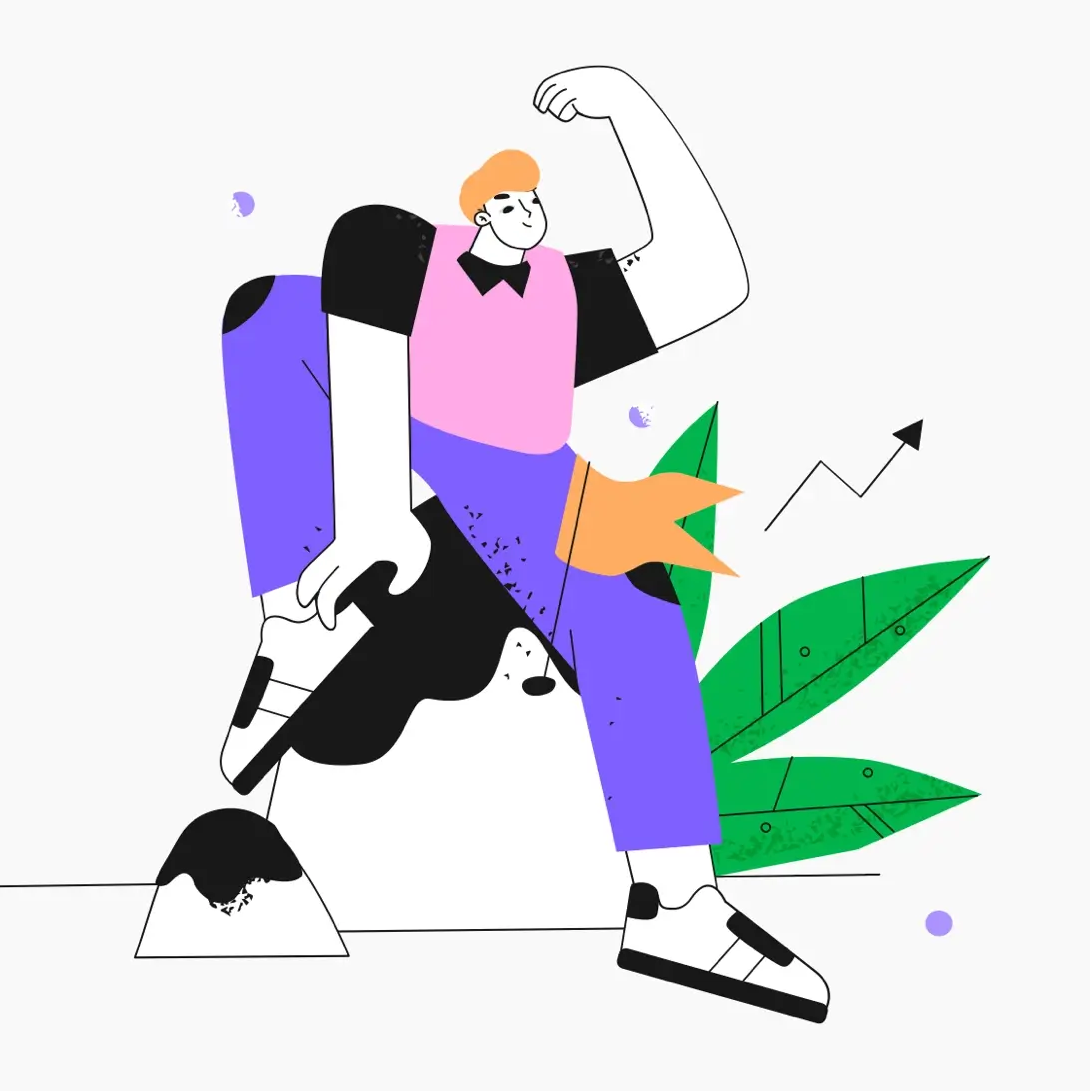
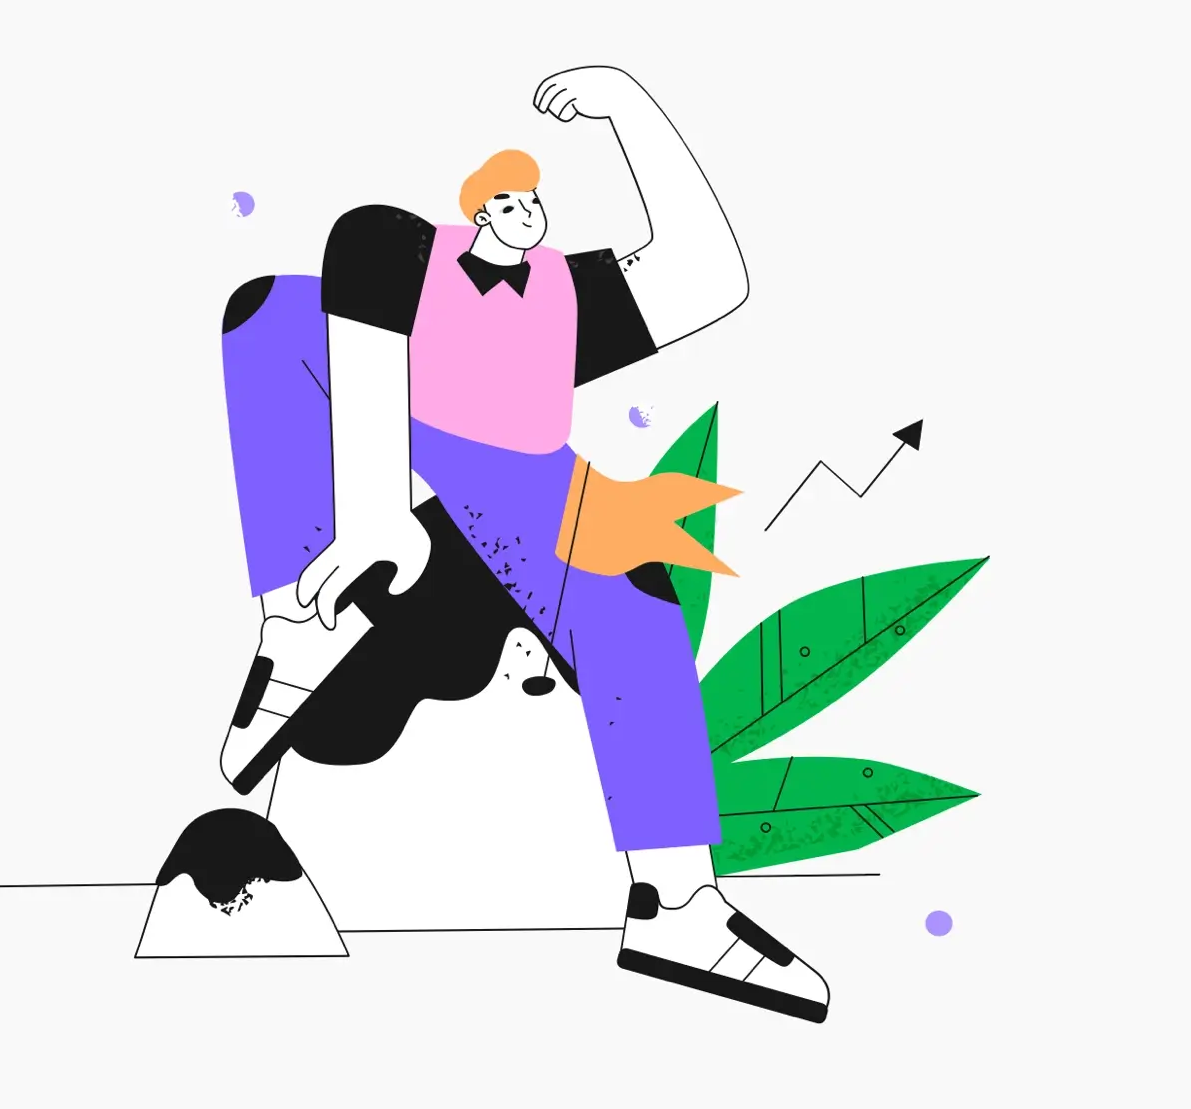
arrumando a localizacao da imagem

diff --git a/src/components/InfoSection/WhatIsItGreenSection.vue b/src/components/InfoSection/WhatIsItGreenSection.vue
@@ -9,9 +9,9 @@
     <!-- ======= Info Section ======= -->
     <section class="info">
         <div class="container">
-            <div class="row">
+            <div class="row align-items-center">
               <div class="col-lg-6">
-                  <img src="../assets/img/aboutBoy.png" class="img-fluid" alt="">
+                  <img src="../../assets/img/aboutBoy.png" class="img-fluid col-10 align-self-center" alt="">
               </div>
               <div class="col-lg-6 pt-4 pt-lg-0 content">
                   <h3>{{ subtitle }}</h3>

diff --git a/src/components/InfoSection/BenefitsItGreenSection.vue b/src/components/InfoSection/BenefitsItGreenSection.vue
@@ -34,7 +34,7 @@
 
             <div class="row">
                 <div class="col-lg-6">
-                    <img src="../assets/img/infoGirl.jpg" class="img-fluid" alt="">
+                    <img src="../../assets/img/infoGirl.jpg" class="img-fluid" alt="">
                 </div>
                 <div class="col-lg-6 pt-4 pt-lg-0 content">
                     <h3>{{ mainTitle }}</h3>

diff --git a/src/components/InfoSection/ContributeItGreenSection.vue b/src/components/InfoSection/ContributeItGreenSection.vue
@@ -44,7 +44,7 @@
 
             <div class="row">
               <div class="col-lg-6">
-                  <img src="../assets/img/aboutGirl.png" class="img-fluid" alt="">
+                  <img src="../../assets/img/aboutGirl.png" class="img-fluid" alt="">
               </div>
               <div class="col-lg-6 pt-4 pt-lg-0 content">
                   <h3>{{ mainTitle }}</h3>
